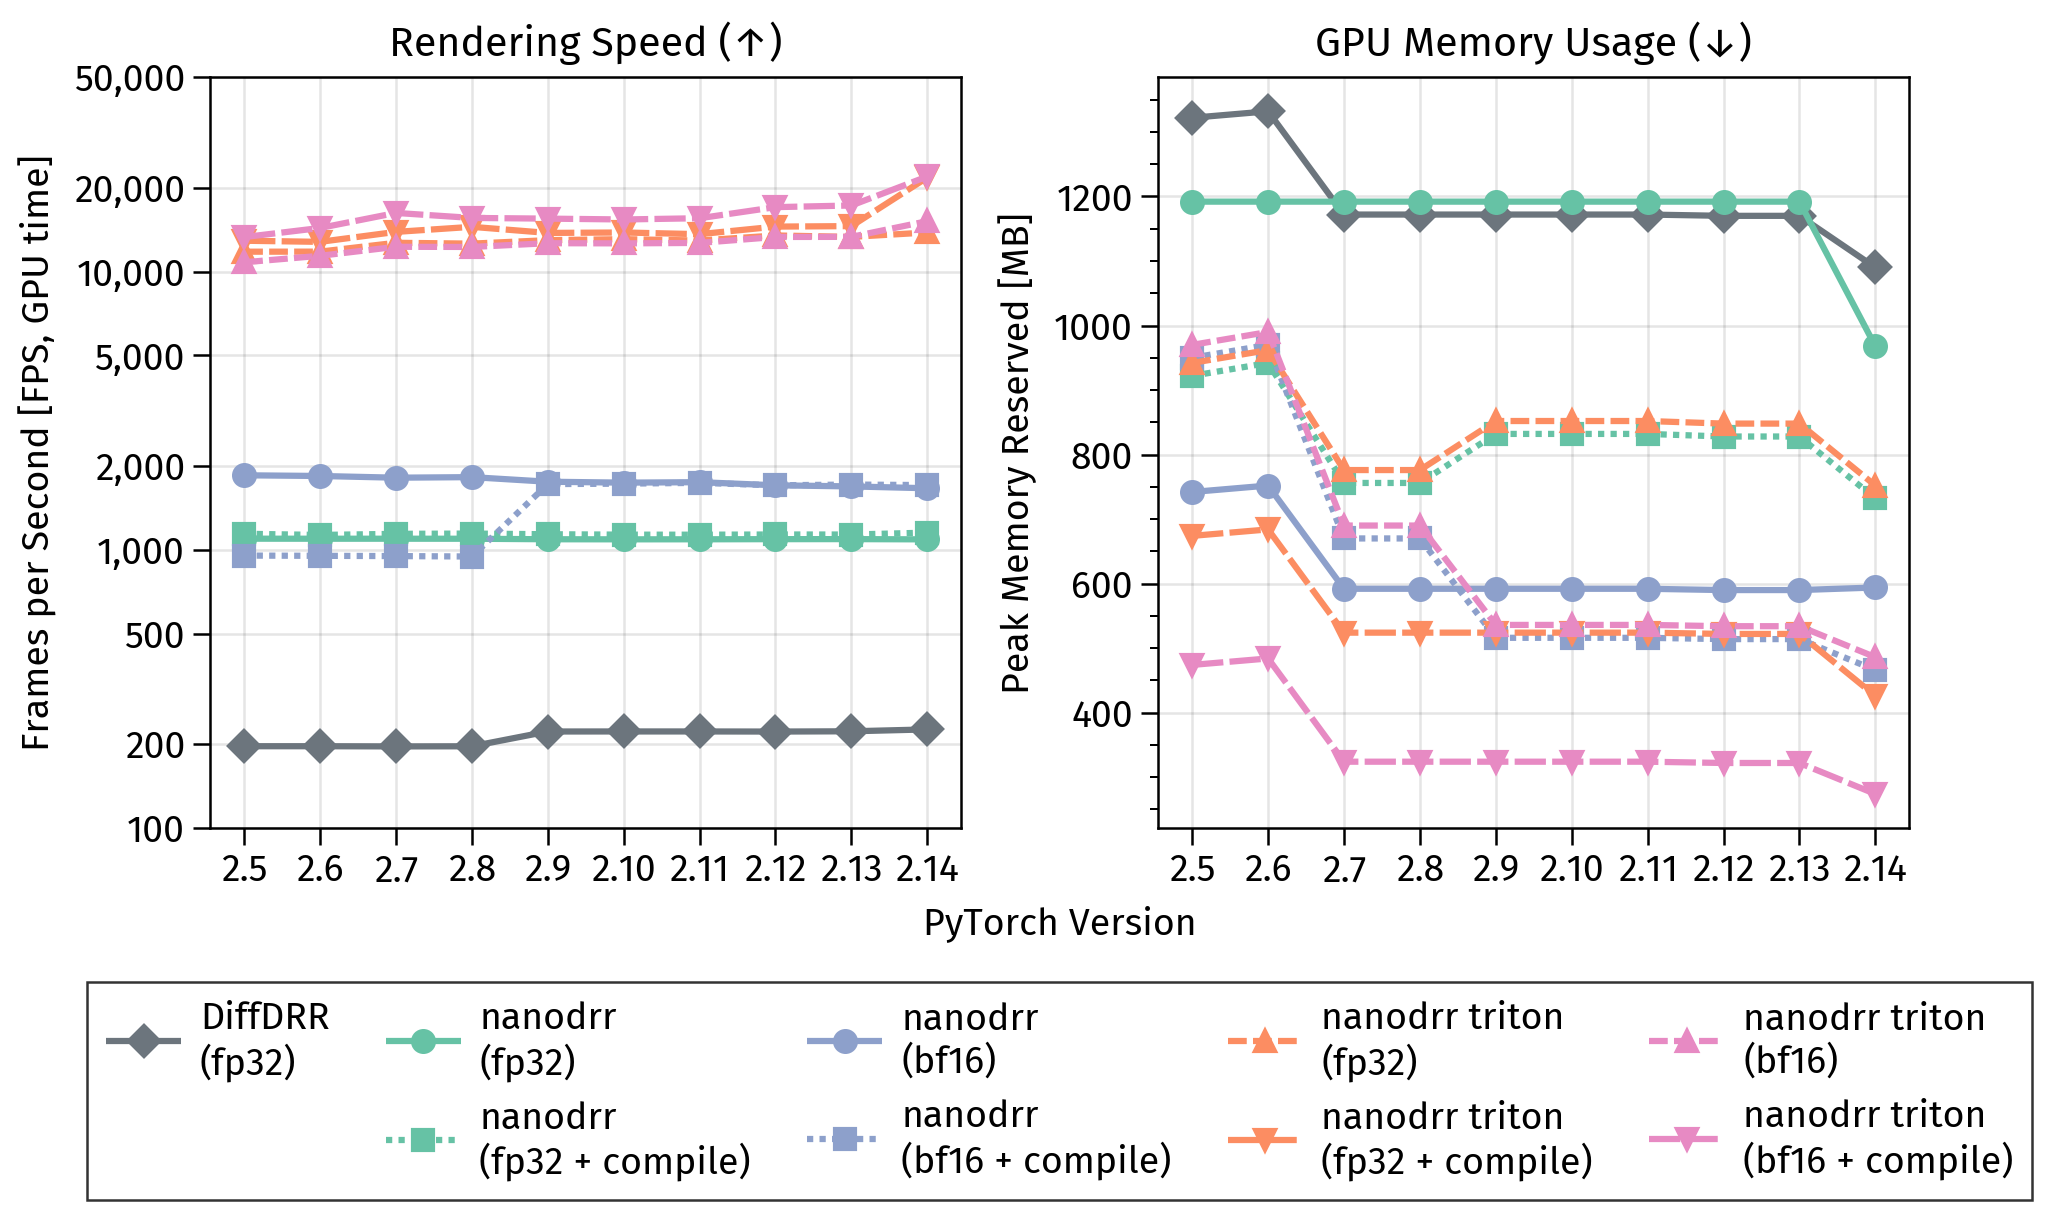
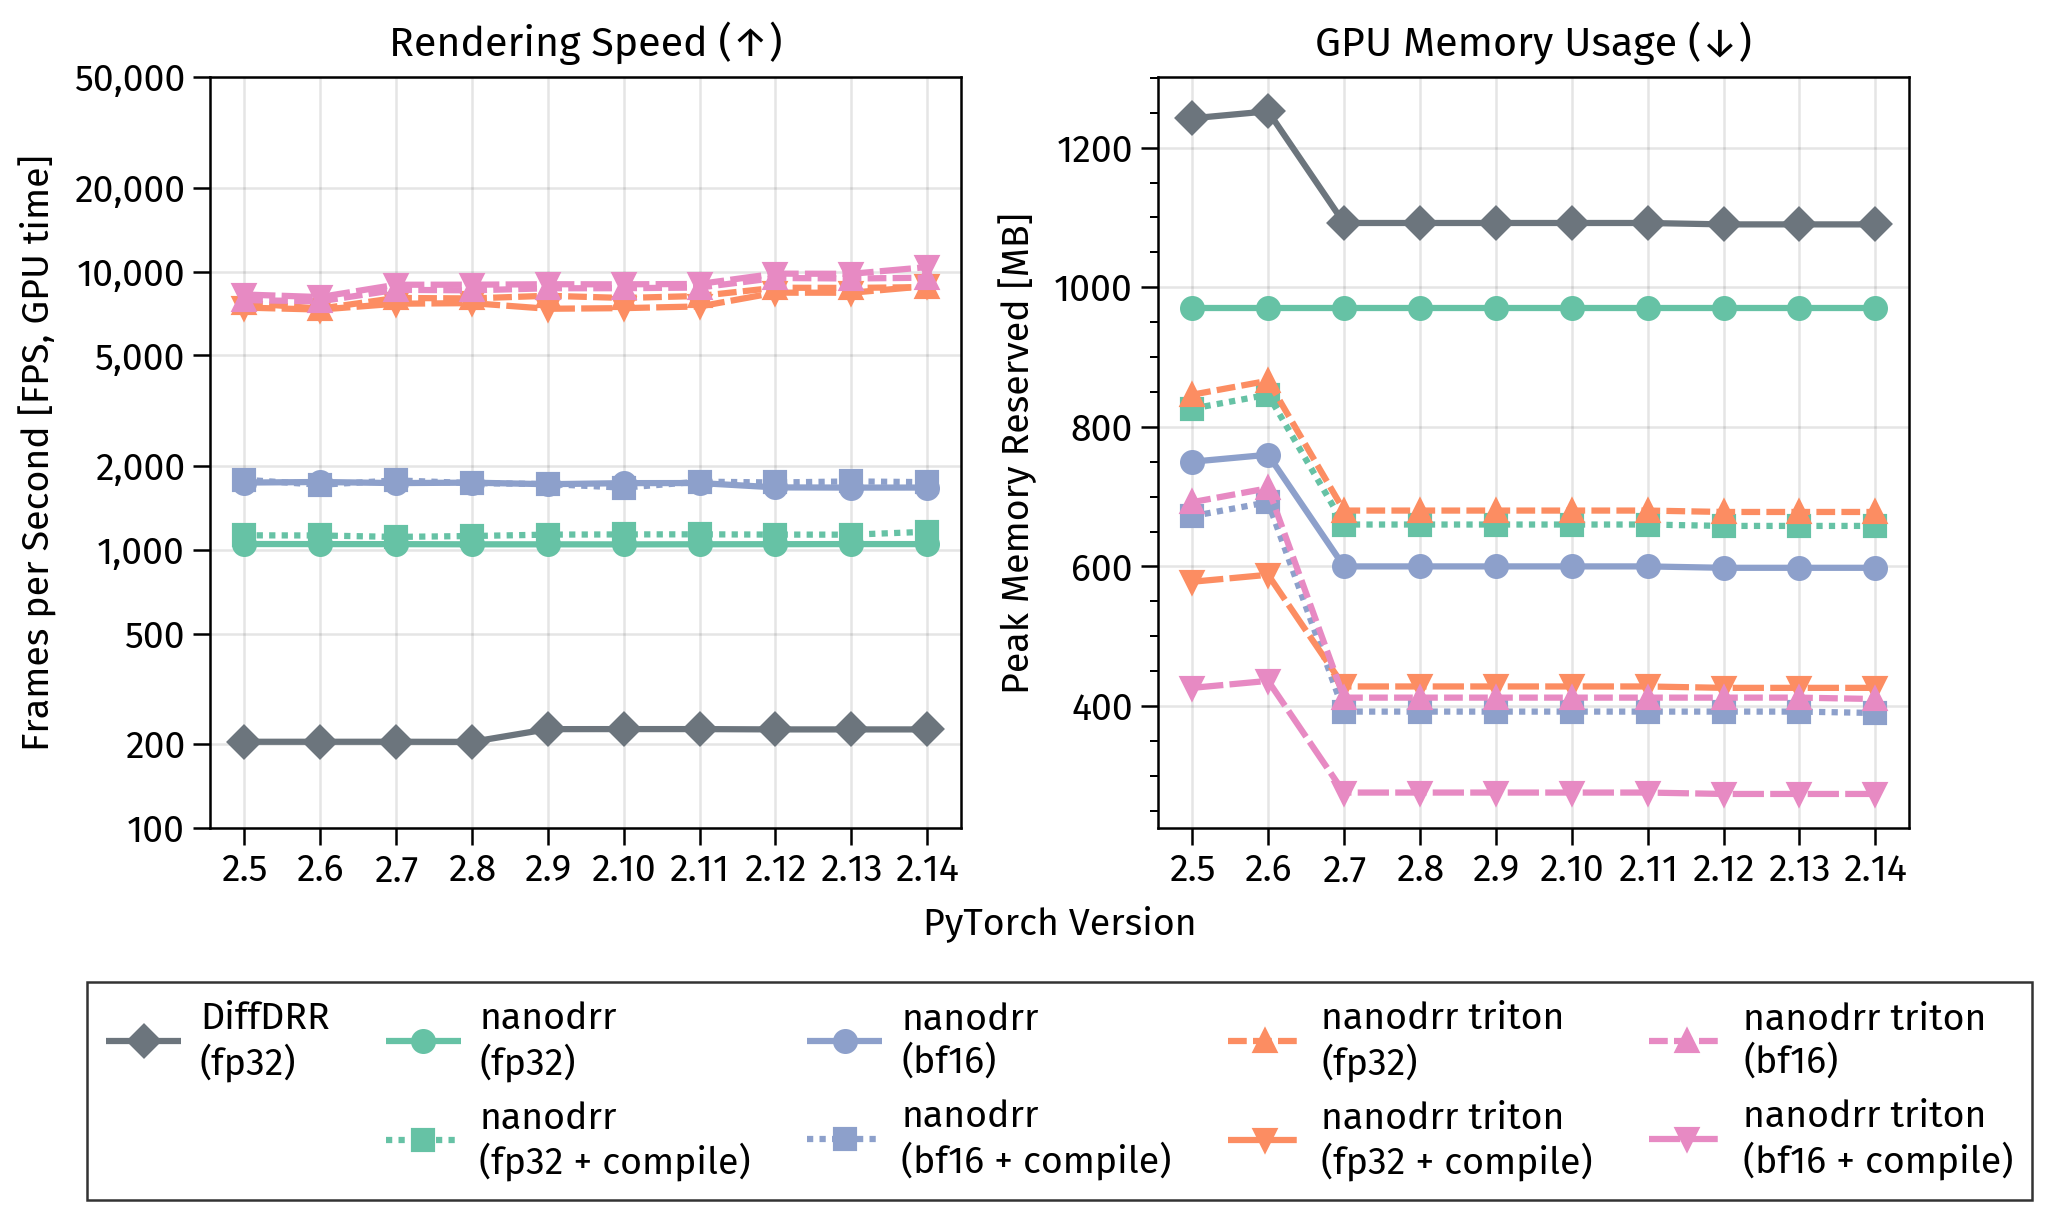
Rerun benchmarks with clipped rays
Update the benchmark results, plots, and the numbers quoted in the README
and docs. Drop the pytorch<2.9 bfloat16 compile note, which the new results
no longer show.

Claude-Session: https://claude.ai/code/session_017AV1yWfKbtDAn1wLBWHeuy

diff --git a/docs/index.md b/docs/index.md
@@ -11,7 +11,7 @@ icon: lucide/rocket
 A performance-oriented reimplementation of [`DiffDRR`](https://github.com/eigenvivek/DiffDRR) with the following improvements:
 
 - Optimized, pure PyTorch implementation (**~5× faster than `DiffDRR` at baseline**)
-- Fused Triton rendering kernel, used by default on CUDA (**up to ~80× faster than `DiffDRR`**)
+- Fused Triton rendering kernel, used by default on CUDA (**~40× faster than `DiffDRR`**)
 - Modular design (freely swap subjects, extrinsics, and intrinsics during rendering)
 - Compatibility with `torch.compile` and mixed precision
 - Extensive type hints with `jaxtyping`
@@ -25,8 +25,6 @@ All changes to `DiffDRR` are summarized [here](changes.md).
 ## Installation
 
 !!! note "PyTorch version"
-    On `pytorch<2.9`, `torch.compile` with `bfloat16` is slower than eager for the pure PyTorch backend due to a CUDA graph capture issue (see [Benchmarks](#benchmarks)). The fused Triton backend is unaffected.
-
     MPS-accelerated differentiable rendering requires `pytorch>=2.13`, which is the first release with native MPS kernels for `grid_sample` backwards and 3D nearest-neighbor sampling.
 
 To strictly install the renderer:
@@ -44,10 +42,10 @@ pip install "nanodrr[all]"    # All extras
 ## Benchmarks
 
 !!! tip "Highlights"
-    - **~5× faster** than [`DiffDRR`](https://github.com/eigenvivek/DiffDRR) with the pure PyTorch backend (1,093 FPS vs 223 FPS)
-    - **~57× faster** with the fused Triton kernel, without compilation (12,600 FPS vs 223 FPS)
-    - **~80× faster** with `torch.compile` and `bfloat16` (17,820 FPS vs 223 FPS)
-    - **~3.5× less memory** than `DiffDRR` (322 MB vs 1,170 MB peak reserved with `bfloat16` + compile)
+    - **~5× faster** than [`DiffDRR`](https://github.com/eigenvivek/DiffDRR) with the pure PyTorch backend (1,048 FPS vs 226 FPS)
+    - **~39× faster** with the fused Triton kernel, without compilation (8,717 FPS vs 226 FPS)
+    - **~40× faster** with `torch.compile` and `bfloat16` (9,008 FPS vs 226 FPS)
+    - **~4× less memory** than `DiffDRR` (276 MB vs 1,092 MB peak reserved with `bfloat16` + compile)
 
 ![Benchmarking runtime, FPS, and memory usage.](assets/images/benchmark.png#only-light)
 ![Benchmarking runtime, FPS, and memory usage.](assets/images/benchmark_dark.png#only-dark)

diff --git a/README.md b/README.md
@@ -7,7 +7,7 @@
 A performance-oriented reimplementation of [`DiffDRR`](https://github.com/eigenvivek/DiffDRR) with the following improvements:
 
 - Optimized, pure PyTorch implementation (**~5× faster than `DiffDRR` at baseline**)
-- Fused Triton rendering kernel, used by default on CUDA (**up to ~80× faster than `DiffDRR`**)
+- Fused Triton rendering kernel, used by default on CUDA (**~40× faster than `DiffDRR`**)
 - Modular design (freely swap subjects, extrinsics, and intrinsics during rendering)
 - Compatibility with `torch.compile` and mixed precision
 - Extensive type hints with `jaxtyping`
@@ -20,8 +20,6 @@ All projective geometry is implemented internally using the standard [Hartley an
 
 > [!NOTE]
 >
-> On `pytorch<2.9`, `torch.compile` with `bfloat16` is slower than eager for the pure PyTorch backend due to a CUDA graph capture issue (see [Benchmarks](#benchmarks)). The fused Triton backend is unaffected.
-> 
 > MPS-accelerated differentiable rendering requires `pytorch>=2.13`, which is the first release with native MPS kernels for `grid_sample` backwards and 3D nearest-neighbor sampling.
 
 To strictly install the renderer:
@@ -39,10 +37,10 @@ pip install "nanodrr[all]"    # All extras
 ## Benchmarks
 
 > [!IMPORTANT]
-> - **~5× faster** than [`DiffDRR`](https://github.com/eigenvivek/DiffDRR) with the pure PyTorch backend (1,093 FPS vs 223 FPS)
-> - **~57× faster** with the fused Triton kernel, without compilation (12,600 FPS vs 223 FPS)
-> - **~80× faster** with `torch.compile` and `bfloat16` (17,820 FPS vs 223 FPS)
-> - **~3.5× less memory** than `DiffDRR` (322 MB vs 1,170 MB peak reserved with `bfloat16` + compile)
+> - **~5× faster** than [`DiffDRR`](https://github.com/eigenvivek/DiffDRR) with the pure PyTorch backend (1,048 FPS vs 226 FPS)
+> - **~39× faster** with the fused Triton kernel, without compilation (8,717 FPS vs 226 FPS)
+> - **~40× faster** with `torch.compile` and `bfloat16` (9,008 FPS vs 226 FPS)
+> - **~4× less memory** than `DiffDRR` (276 MB vs 1,092 MB peak reserved with `bfloat16` + compile)
 
 <picture>
   <source media="(prefers-color-scheme: dark)" srcset="docs/assets/images/benchmark_dark.png">
